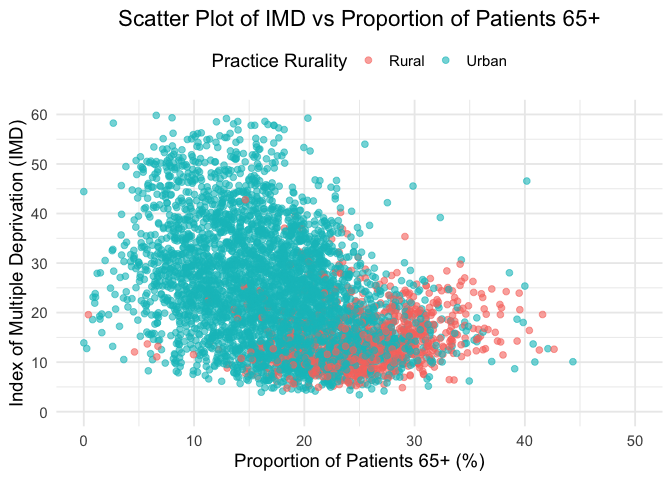
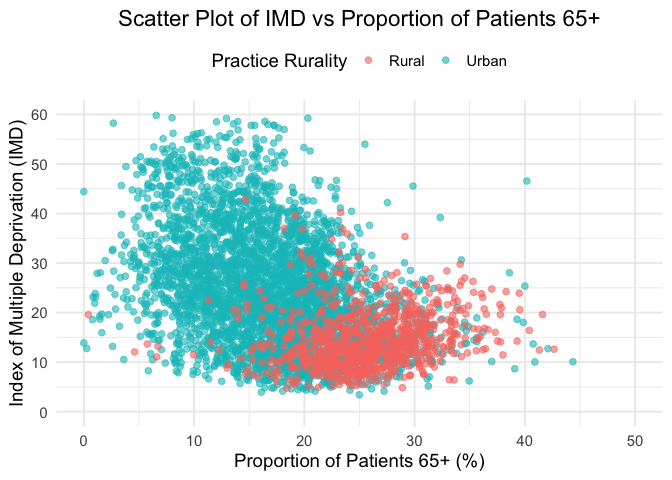
change order

Changed region(s): [[0.3125, 0.4375, 0.7188, 0.8125], [0.3438, 0.5625, 0.375, 0.5938]]

diff --git a/data/age_group/README.md b/data/age_group/README.md
@@ -216,7 +216,8 @@ df %>%
 
 ``` r
 plot <- df %>%
-  select("Practice.Code", "prop65", "IMD", "Practice.Rurality")
+  select("Practice.Code", "prop65", "IMD", "Practice.Rurality") %>%
+  arrange(Practice.Rurality == "Rural")
 
 library(ggplot2)
 
